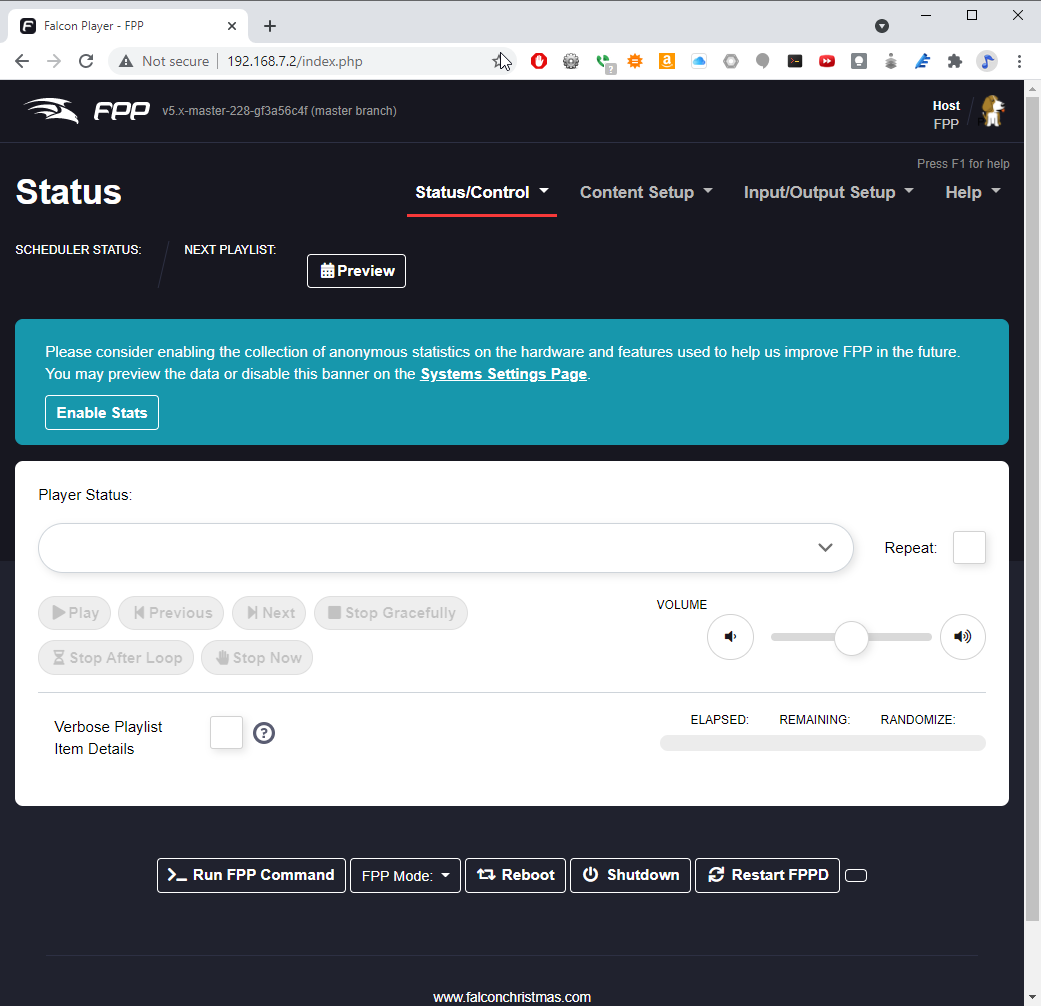
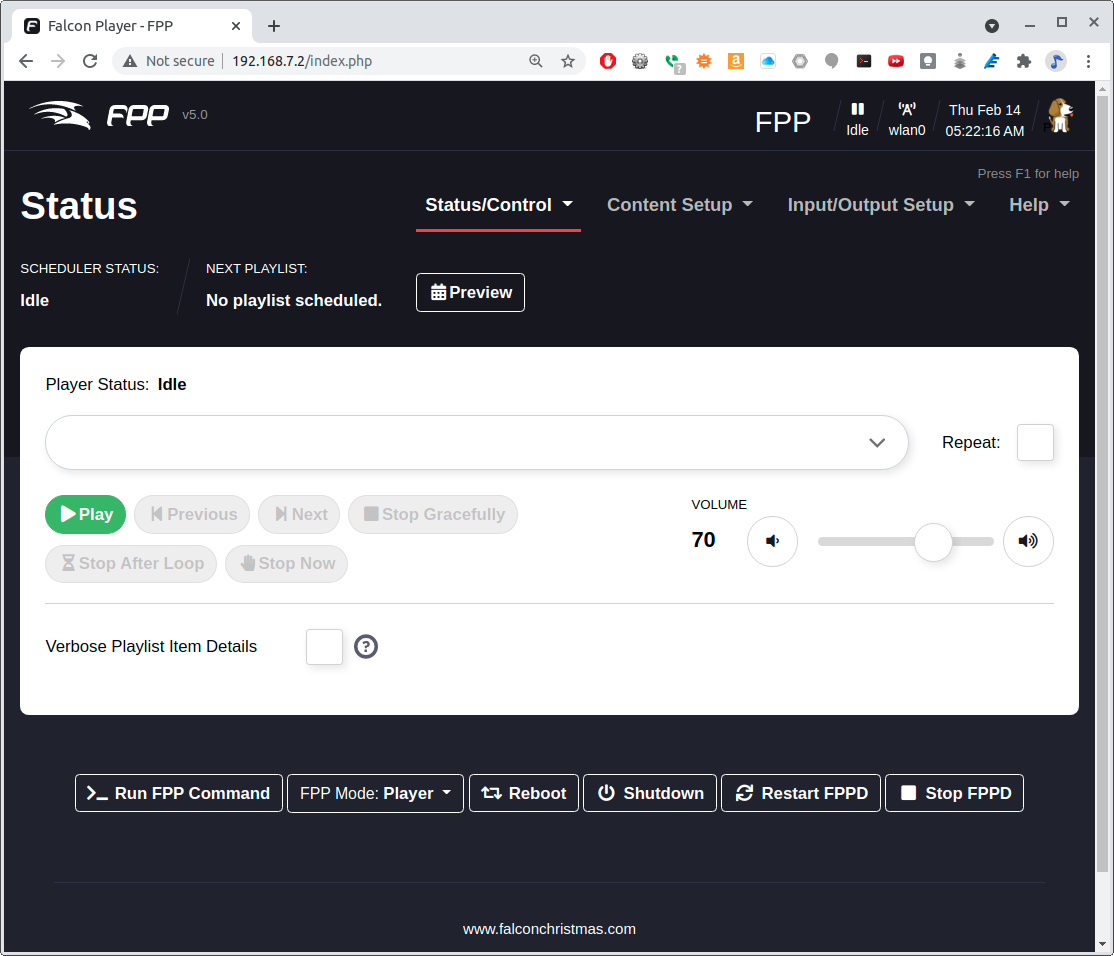
Updated figures to FPP 5

diff --git a/docs/01case/case.html b/docs/01case/case.html
@@ -1204,7 +1204,7 @@ and want to light it up.</p>
 <div class="paragraph">
 <p>You can either write your own code
 (See <a href="../05blocks/blocks.html#blocks_ws2812">WS2812 Driver</a>), or
-use FPP</p>
+use FPP.</p>
 </div>
 </div>
 </div>
@@ -1453,38 +1453,25 @@ do simple sequence just to be sure xLights is talking to the Bone.</p>
 <p>First we need to setup FPP to take input from xLights.  Do this by going to
 the <strong>Input/Output Setup</strong> menu and selecting <strong>Channel Inputs</strong>.  Then
 enter <strong>12</strong> for <strong>Universe Count</strong> and click <strong>set</strong> and you will see
-<a href="#case_inputs_setup">E1.31 Bridge Mode Universes</a>.</p>
+<a href="#case_inputs_setup">E1.31 Inputs</a>.</p>
 </div>
 <div id="case_inputs_setup" class="imageblock">
 <div class="content">
-<img src="figures/fpp_inputs_setup.png" alt=".E1.31 Bridge Mode Universes">
+<img src="figures/fpp_inputs_setup.png" alt=".E1.31 Inputs">
 </div>
-<div class="title">Figure 15. E1.31 Bridge Mode Universes</div>
-</div>
-<div class="paragraph">
-<p>Click on the <strong>Save</strong> button above the table.  Then go to the <strong>Status/Control</strong>
-menu and select <strong>MultiSync</strong> as shown in <a href="#case_multisync">Using MultiSync page to switch to Bridge mode</a>.</p>
-</div>
-<div id="case_multisync" class="imageblock">
-<div class="content">
-<img src="figures/fpp_multisync.png" alt="MultiSync">
-</div>
-<div class="title">Figure 16. Using MultiSync page to switch to Bridge mode</div>
+<div class="title">Figure 15. E1.31 Inputs</div>
 </div>
 <div class="paragraph">
-<p>Select <strong>FPP</strong> by checking the box on the right and select <strong>Set to Bridge</strong>
-for <strong>Action for selected system</strong>.  Then click <strong>&gt;Run</strong>.  it will take a moment
-to restart FPPD.</p>
+<p>Click on the <strong>Save</strong> button above the table.</p>
 </div>
 <div class="paragraph">
-<p>Then go to the <strong>Status/Control</strong> menu and select <strong>Status Page</strong>.  It is now in
-Bridge mode.</p>
+<p>Then go to the <strong>Status/Control</strong> menu and select <strong>Status Page</strong>.</p>
 </div>
 <div id="case_mode_bridge" class="imageblock">
 <div class="content">
 <img src="figures/fpp_mode_bridge.png" alt="Bridge Mode">
 </div>
-<div class="title">Figure 17. Bridge Mode</div>
+<div class="title">Figure 16. Bridge Mode</div>
 </div>
 </div>
 <div class="sect4">
@@ -1498,7 +1485,7 @@ A quick way to verify everything is t o return to xLights and go to the
 <div class="content">
 <img src="figures/xlights_test.png" alt="xLights test page">
 </div>
-<div class="title">Figure 18. xLights test page</div>
+<div class="title">Figure 17. xLights test page</div>
 </div>
 <div class="paragraph">
 <p>Click the box under <strong>Select channels&#8230;&#8203;</strong>, click <strong>Output to lights</strong> and
@@ -1509,7 +1496,7 @@ select <strong>Twinkle 50%</strong>.  You matrix should have a colorful twinkle 
 <div class="content">
 <img src="figures/xlights_twinkle.jpg" alt="xLights Twinkle test pattern">
 </div>
-<div class="title">Figure 19. xLights Twinkle test pattern</div>
+<div class="title">Figure 18. xLights Twinkle test pattern</div>
 </div>
 </div>
 <div class="sect4">
@@ -1555,7 +1542,7 @@ Enter you playlist name (I used <strong>fire</strong>) and click <strong>Add</st
 <div class="content">
 <img src="figures/fpp_playlist.png" alt="Adding a new playlist to FPP">
 </div>
-<div class="title">Figure 20. Adding a new playlist to FPP</div>
+<div class="title">Figure 19. Adding a new playlist to FPP</div>
 </div>
 <div class="paragraph">
 <p>Be sure to click <strong>Save Playlist</strong> on the right. Now return to
@@ -1567,7 +1554,7 @@ button and your sequence will play.</p>
 <div class="content">
 <img src="figures/fpp_playlist_status.png" alt="Playing a playlist">
 </div>
-<div class="title">Figure 21. Adding a new playlist to FPP</div>
+<div class="title">Figure 20. Adding a new playlist to FPP</div>
 </div>
 <div class="paragraph">
 <p>The beauty of the PRU is that the Beagle can play a detailed sequence at
@@ -1623,7 +1610,7 @@ The software suite is installed in aircraft from many OEM UAV companies, such as
 </div>
 <div id="footer">
 <div id="footer-text">
-Last updated 2021-08-02 08:52:18 -0400
+Last updated 2021-08-06 16:35:07 -0400
 </div>
 </div>
 </body>
